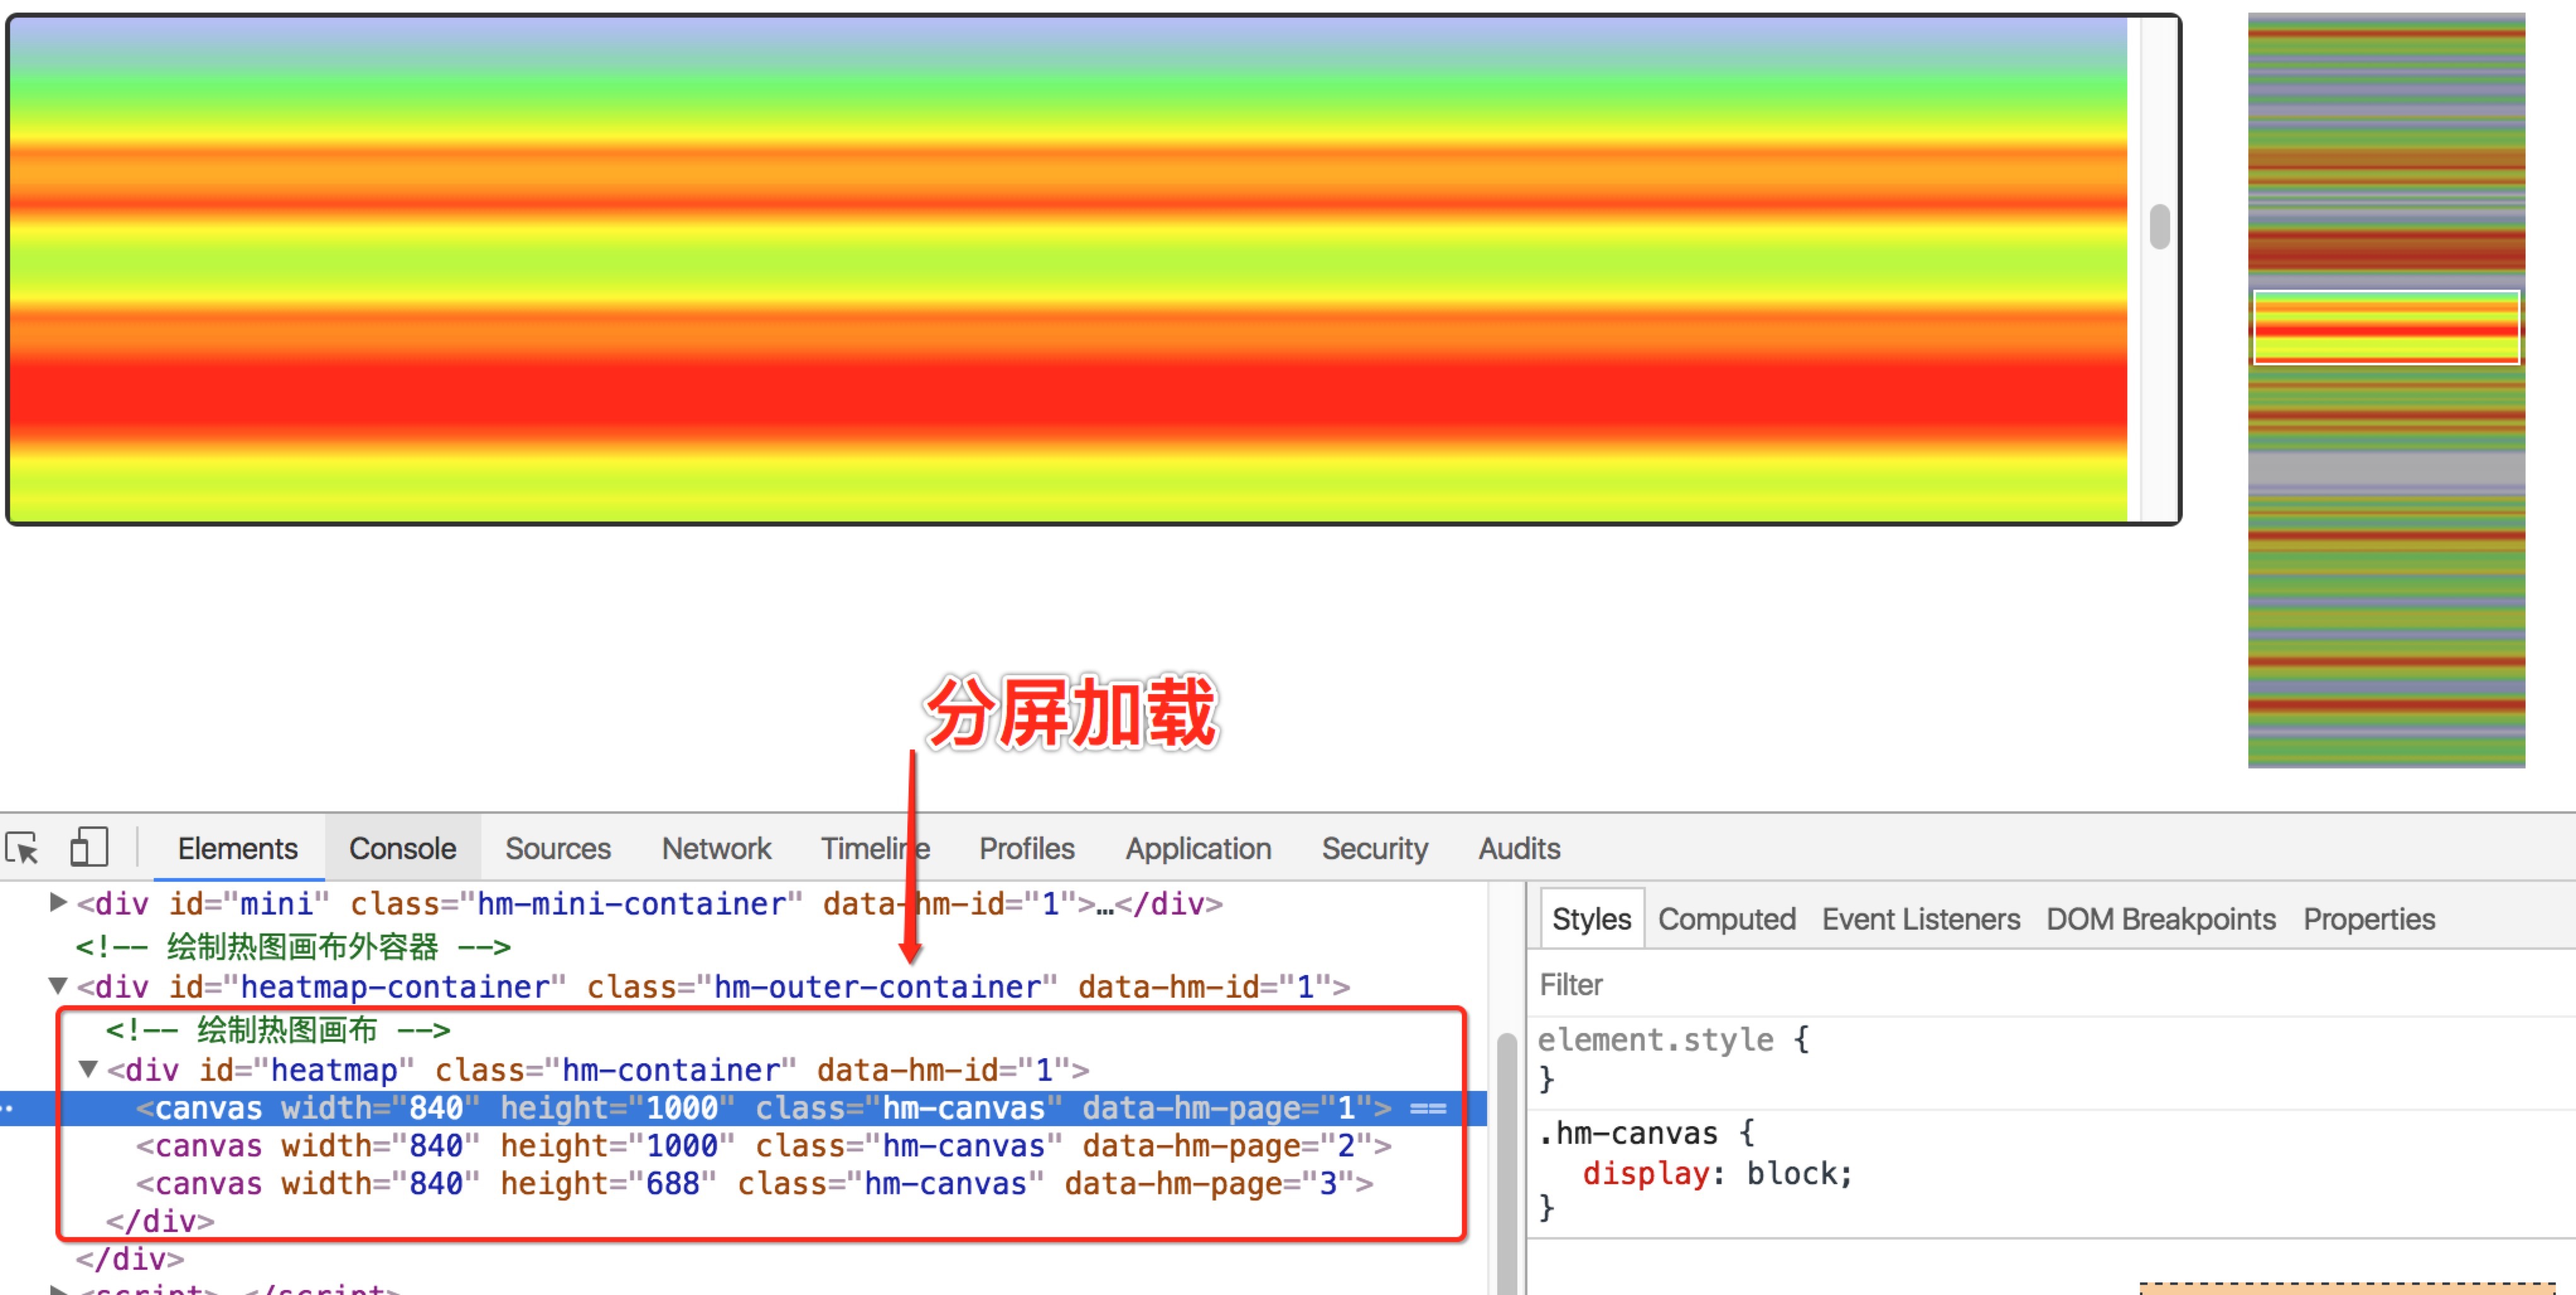
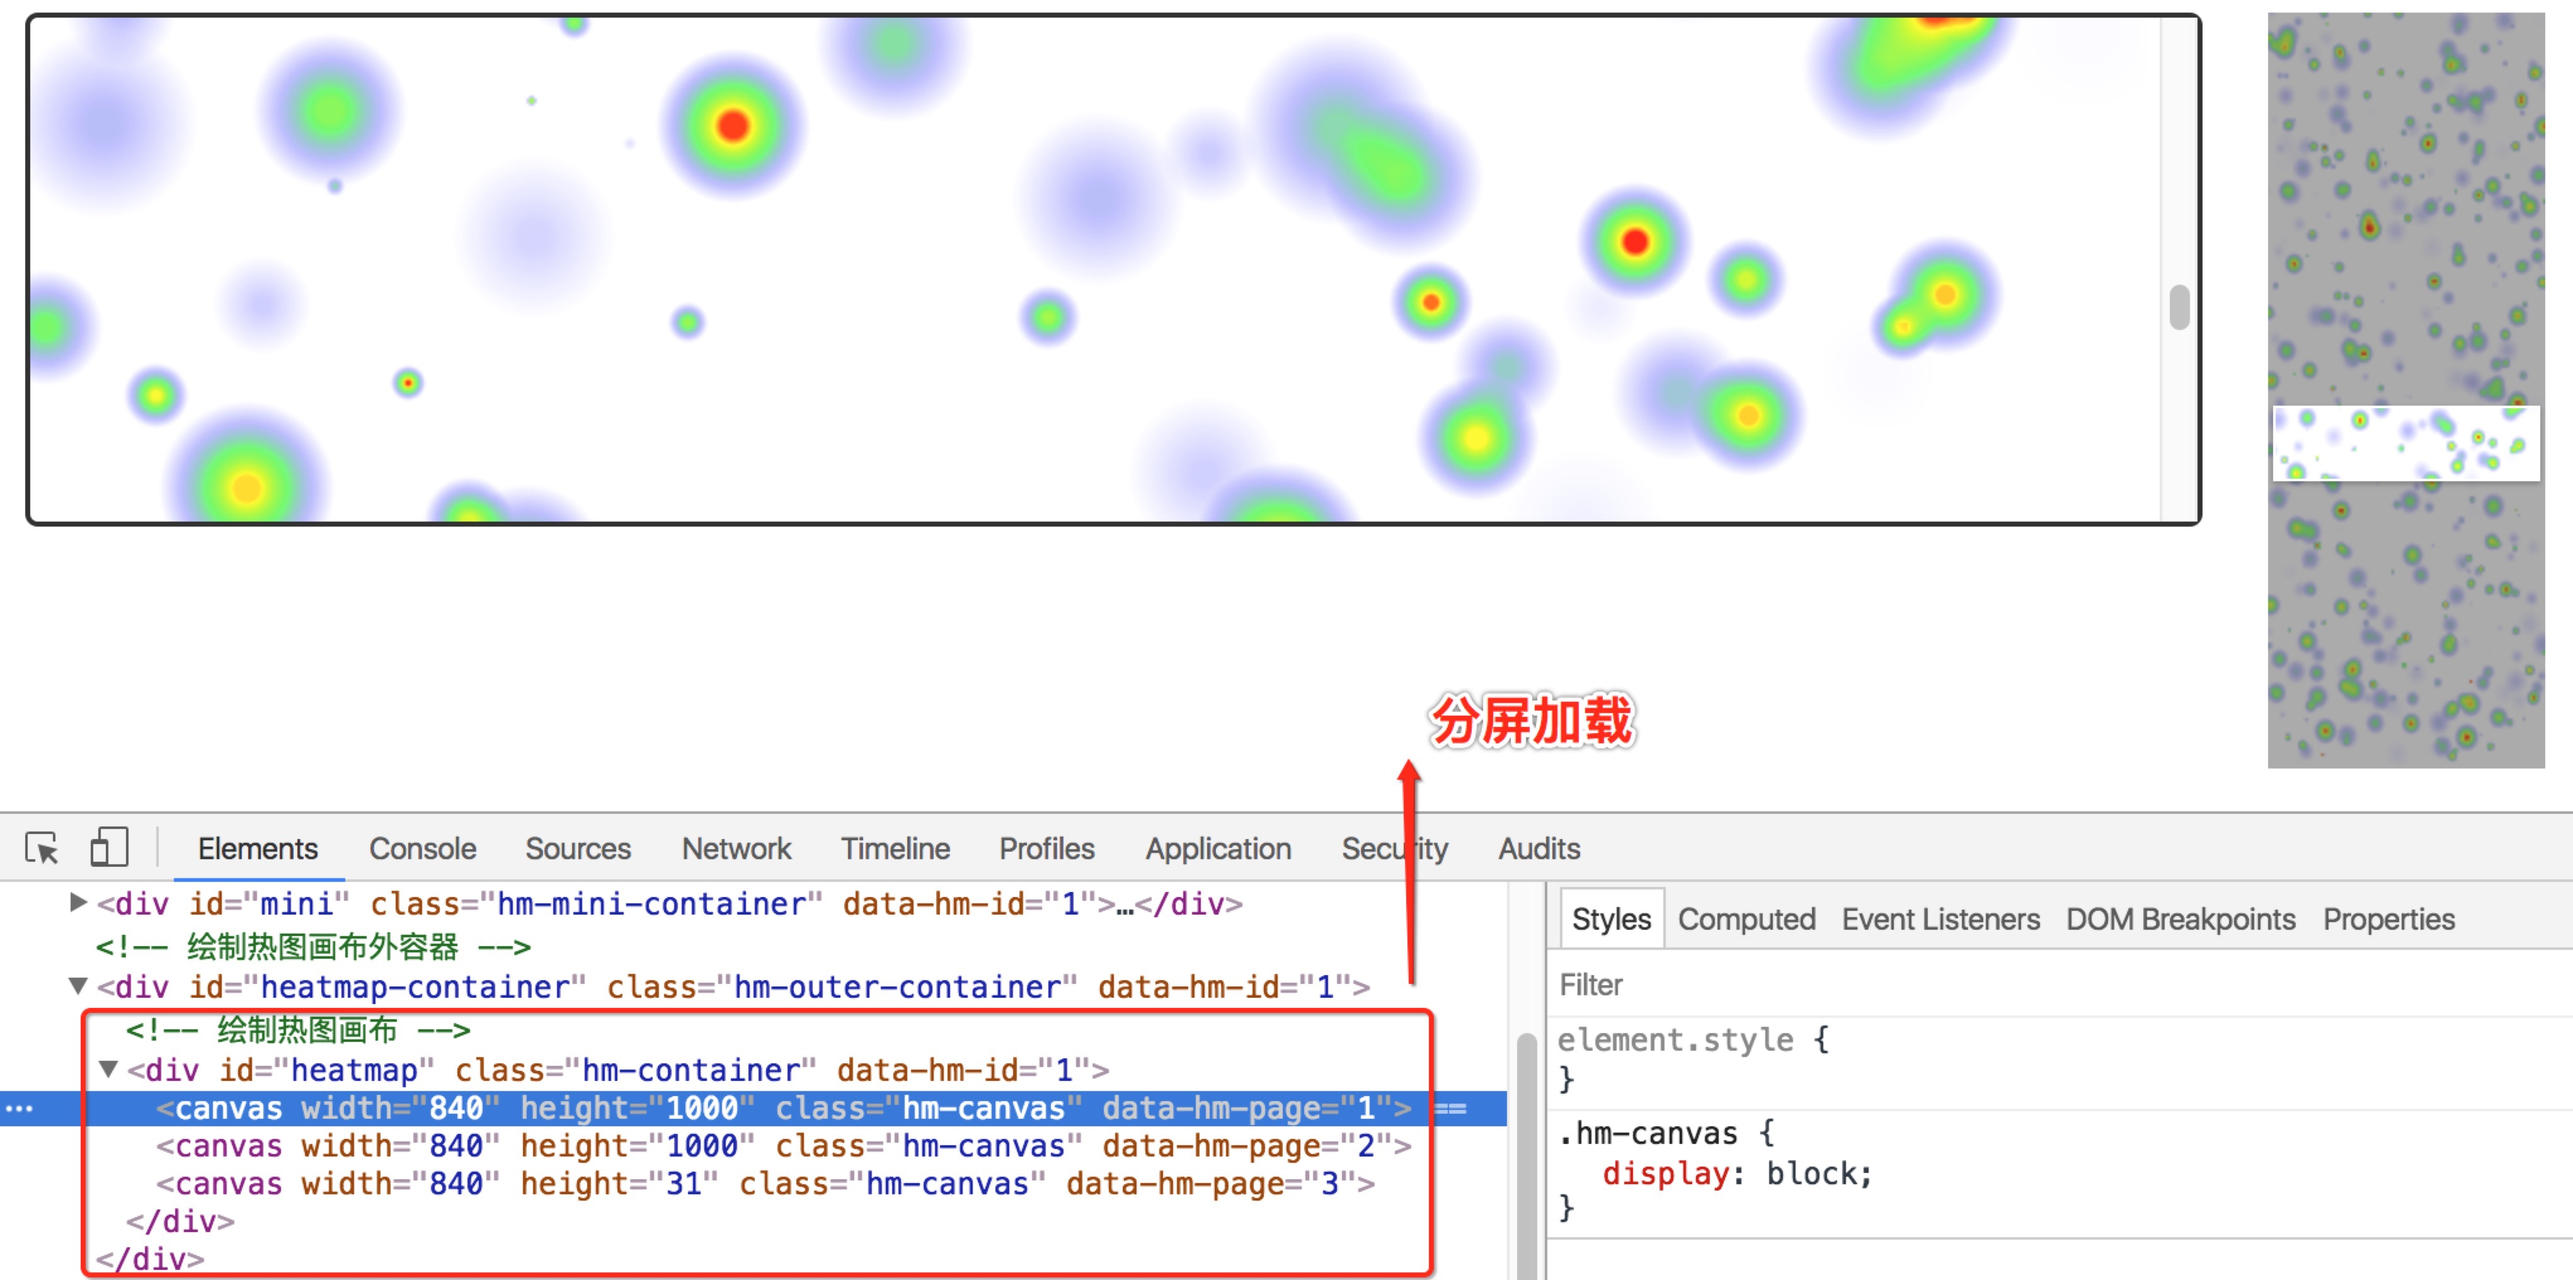
update

diff --git a/example/pagination/click_map.html b/example/pagination/click_map.html
@@ -18,7 +18,6 @@
             height: 300px;
             background-color: #fff;
             border-radius: 5px;
-            display: none;
         }
         #heatmap-container {
             width: 860px;
@@ -31,7 +30,7 @@
         }
         #heatmap {
             width: 840px;
-            height: 21000px;   /* 30屏 4.5s */
+            height: 2000px;   /* 30屏 4.5s */
         }
     </style>
 </head>
@@ -66,12 +65,19 @@
     }
     // 数据
     var data = {
-        nodes: generateRandomData(7000)
+        nodes: generateRandomData(500)
     };
     // 配置
     var option = {
         container: '#heatmap',
-        outerContainer: '#heatmap-container'
+        outerContainer: '#heatmap-container',
+        mini: {
+            enabled: true,
+            el: '#mini'
+        },
+        pagination: {
+            pageSize: 1000
+        }
     };
 
     // 初始化

diff --git a/src/config.js b/src/config.js
@@ -57,10 +57,10 @@ export var globalConfig = {
     },
     mini: {
         enabled: false,                             // 是否启用缩略图
+        el: '',                                     // 缩略图容器的选择器, 类型: 字符串
         sliderMinHeight: 30,                        // 滑块的最小高度
         sliderPaddingTop: 2,                        // 滑块滑到顶部的空隙距离
         sliderPaddingBottom: 2,                     // 滑块滑到底部的空隙距离
-        el: '',                                     // 缩略图容器的选择器, 类型: 字符串
         onDragStart: f,                             // 回调监听: 开始拖拽
         onDrag: f,                                  // 回调监听: 拖拽
         onDragEnd: f,                               // 回调监听: 结束拖拽

diff --git a/README.md b/README.md
@@ -8,7 +8,7 @@ heatmap.js is a plugin for canvas chart 一个基于canvas的绘制热图插件
 
 ### 预览图
 
-<img src="https://github.com/tm-roamer/heatmap/blob/master/doc/click.png" width="630" height="327" >
+<img src="https://github.com/tm-roamer/heatmap/blob/master/doc/click.png" width="600" height="300" >
 <img src="https://github.com/tm-roamer/heatmap/blob/master/doc/attention.png" width="600" height="225" >
 
 ### 安装使用说明
